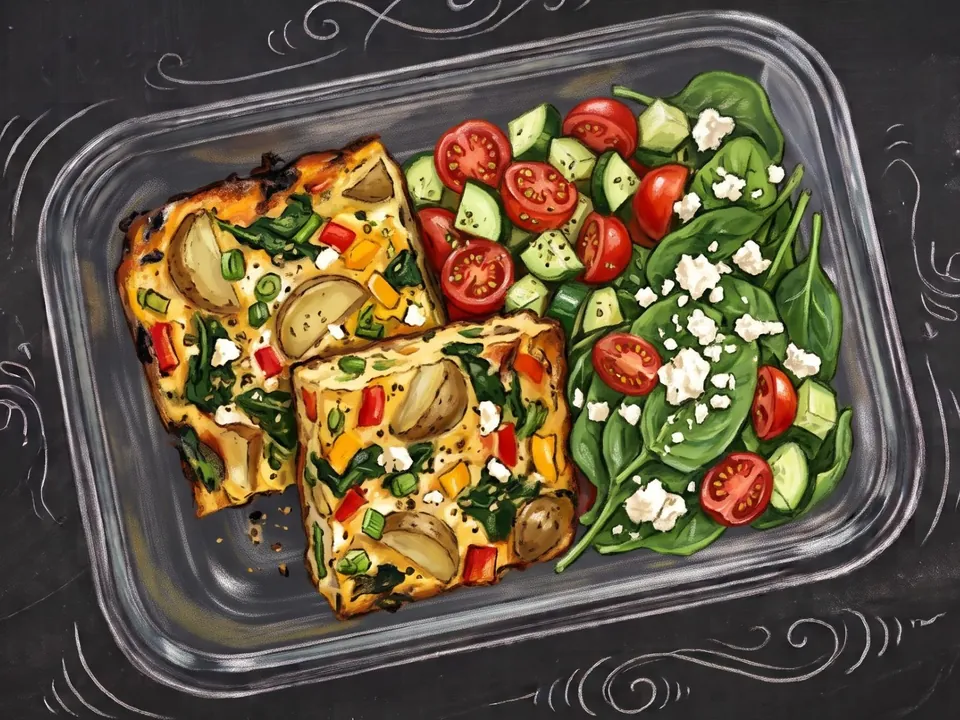
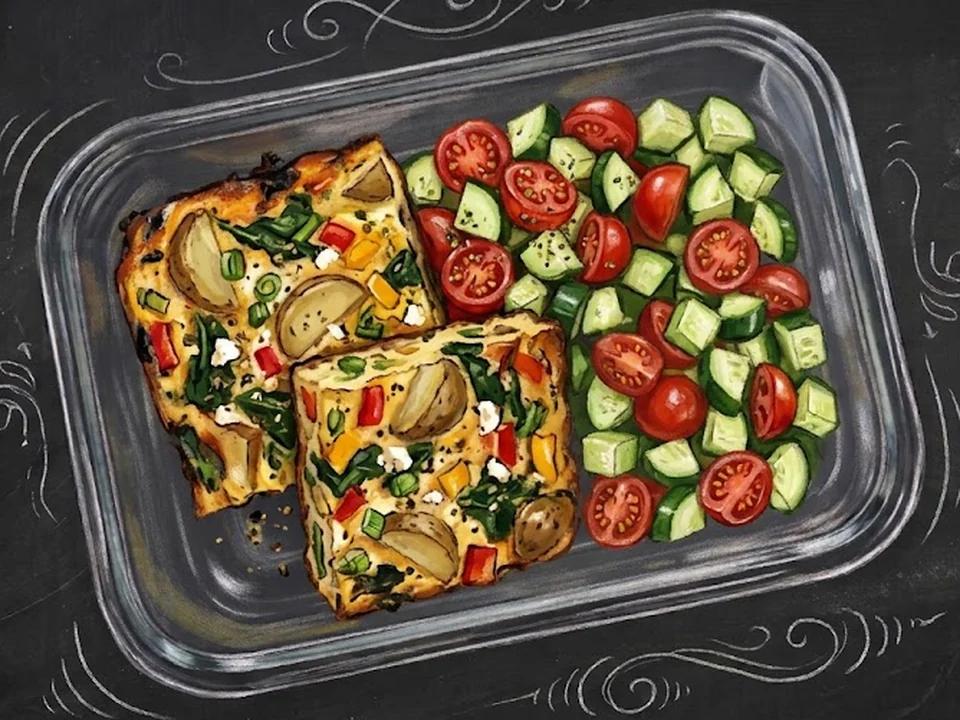
Frittata picture: tomato and cucumber side only
The side salad in the picture now matches the recipe (cherry tomatoes
and cucumber), without the spinach and feta of the earlier drawing.

Claude-Session: https://claude.ai/code/session_01AJVLnJHPLumpGgjAsqfr1e

diff --git a/sw.js b/sw.js
@@ -4,7 +4,7 @@
 // and an unchanged one never is. In the installed app the page asks for all of them once ('warm').
 // Every file is checked against the hash it should have before it is kept, so a copy that is still
 // stale somewhere on the way (a cache, the CDN right after a change) is never stored as the new one.
-const VERSION = 'cddc38a0e27a';
+const VERSION = 'd3d6c9736d05';
 const CORE = {
 "index.html": "57bac551f6",
 "data.js": "ec85c75705",
@@ -110,7 +110,7 @@ const IMGS = {
 "img/tuna-sweet-potato-cakes.webp": "f4018d3d87",
 "img/tuna-white-bean-salad.webp": "0326d065c5",
 "img/turkey-taco-lettuce-cups.webp": "5d289e8ba3",
-"img/vegetable-frittata-squares.webp": "c128660f81",
+"img/vegetable-frittata-squares.webp": "bb10c0e3a9",
 "img/zaatar-chicken-cauliflower.webp": "a171c456ad"
 };
 const CORE_CACHE = 'prepbook-core-' + VERSION;
